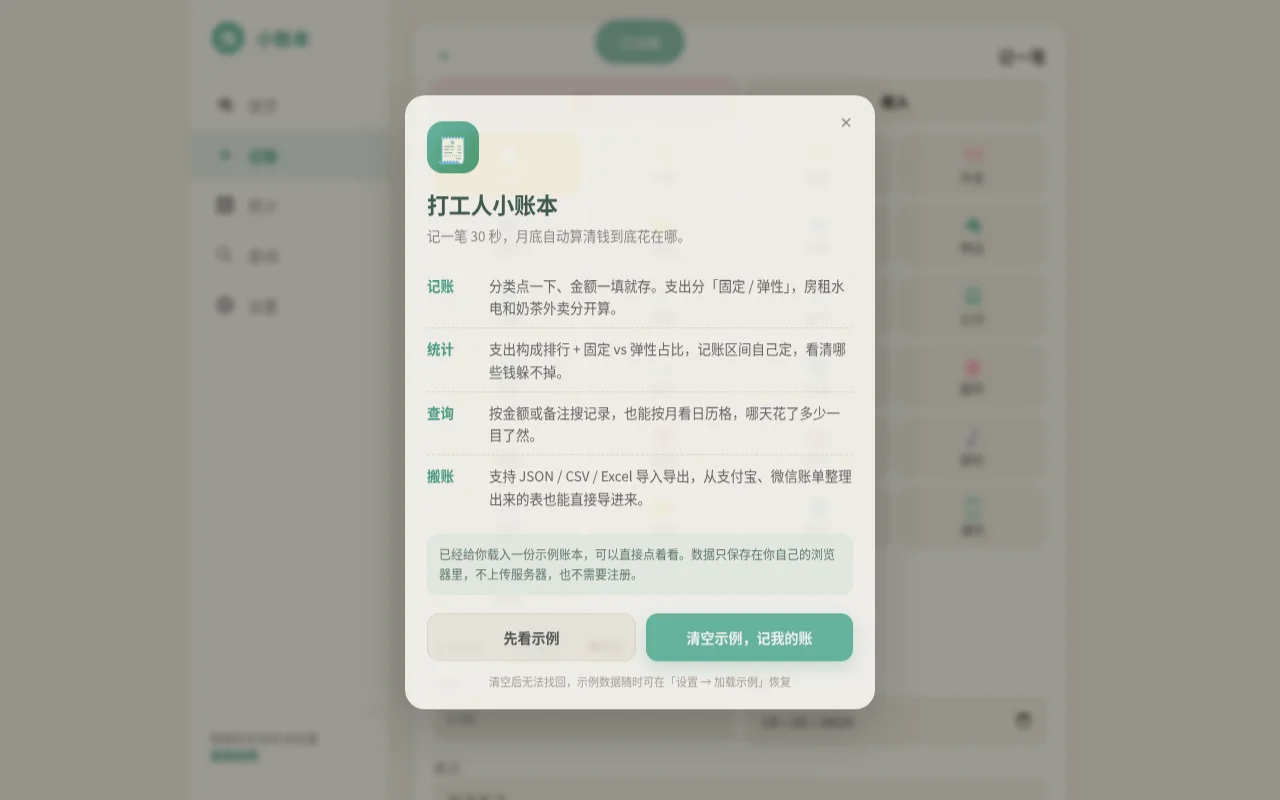
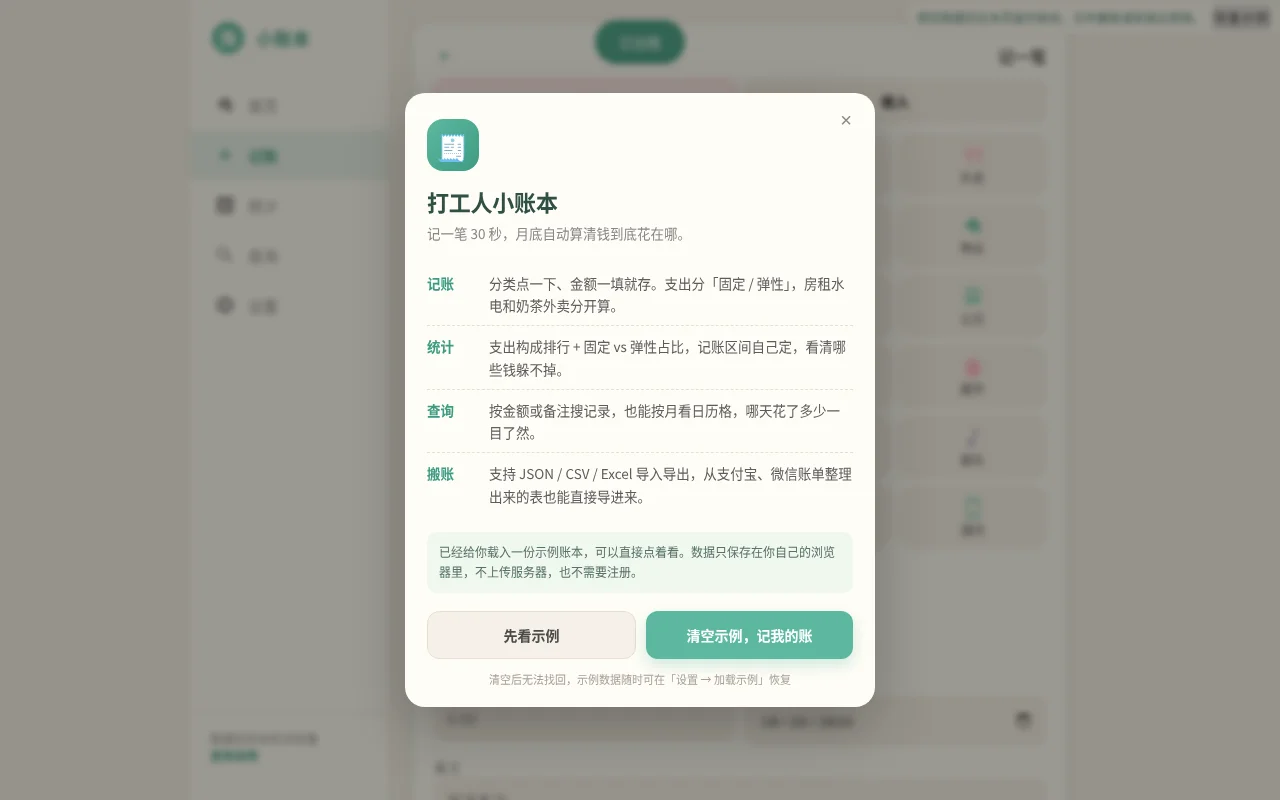
Add 打工人小账本 template

diff --git a/wb1024-c286-bdd663a2/showcase/preview.html b/wb1024-c286-bdd663a2/showcase/preview.html
@@ -234,7 +234,9 @@ input,textarea{user-select:text!important;-webkit-user-select:text!important}
   background:transparent;color:var(--text-light);font-size:20px;line-height:1;cursor:pointer}
 .wbw-x:hover{background:var(--bg)}
 .wbw-foot{margin-top:12px;text-align:center;font-size:11px;color:#A9A096}
-</style></head><body>
+
+.preview-note{position:fixed;z-index:9999;top:0;right:0;background:#fffdf7;color:#3d7567;padding:5px 9px;font-size:12px;border:1px solid #e8e0d0;border-radius:0 0 0 8px}.preview-note button{margin-left:8px;cursor:pointer} #export-btn,#export-csv-btn,#backup-btn,#import-btn,#sample-export-btn{opacity:.5;pointer-events:none}
+</style></head><body><div class="preview-note">预览数据仅在本页面内有效，文件搬账请安装后使用。<button onclick="location.reload()">恢复示例</button></div>
 <div class="app">
   <!-- Sidebar -->
   <aside class="sidebar">
